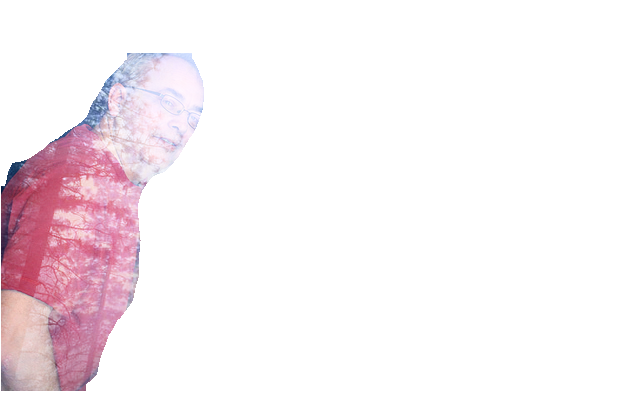
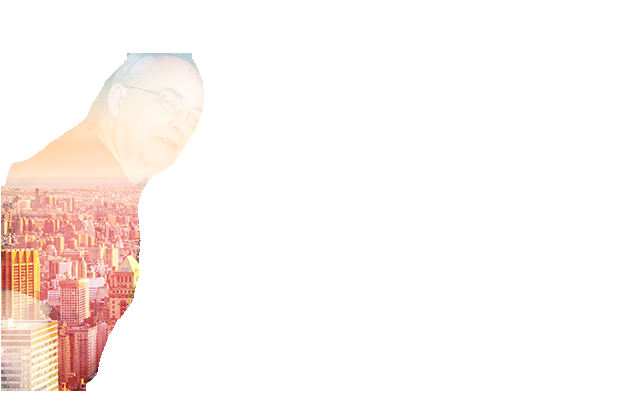
modified:   background_filter.png 	modified:   dbexpos_image.png 	modified:   demo.py 	modified:   plot.png

Changed region(s): [[0.0, 0.1197, 0.3125, 0.9875]]

diff --git a/demo.py b/demo.py
@@ -67,7 +67,7 @@ class_names = ['BG', 'person', 'bicycle', 'car', 'motorcycle', 'airplane',
 # Load a random image from the images folder
 file_names = next(os.walk(IMAGE_DIR))[2]
 image = skimage.io.imread(os.path.join(IMAGE_DIR, 'IMG_0040.JPG'))
-background_image = Image.open(os.path.join(IMAGE_DIR,'IMG_0062.JPG'))
+background_image = Image.open(os.path.join(IMAGE_DIR,'IMG_0060.JPG'))
 # Run detection
 results = model.detect([image], verbose=1)
 #print(results)
